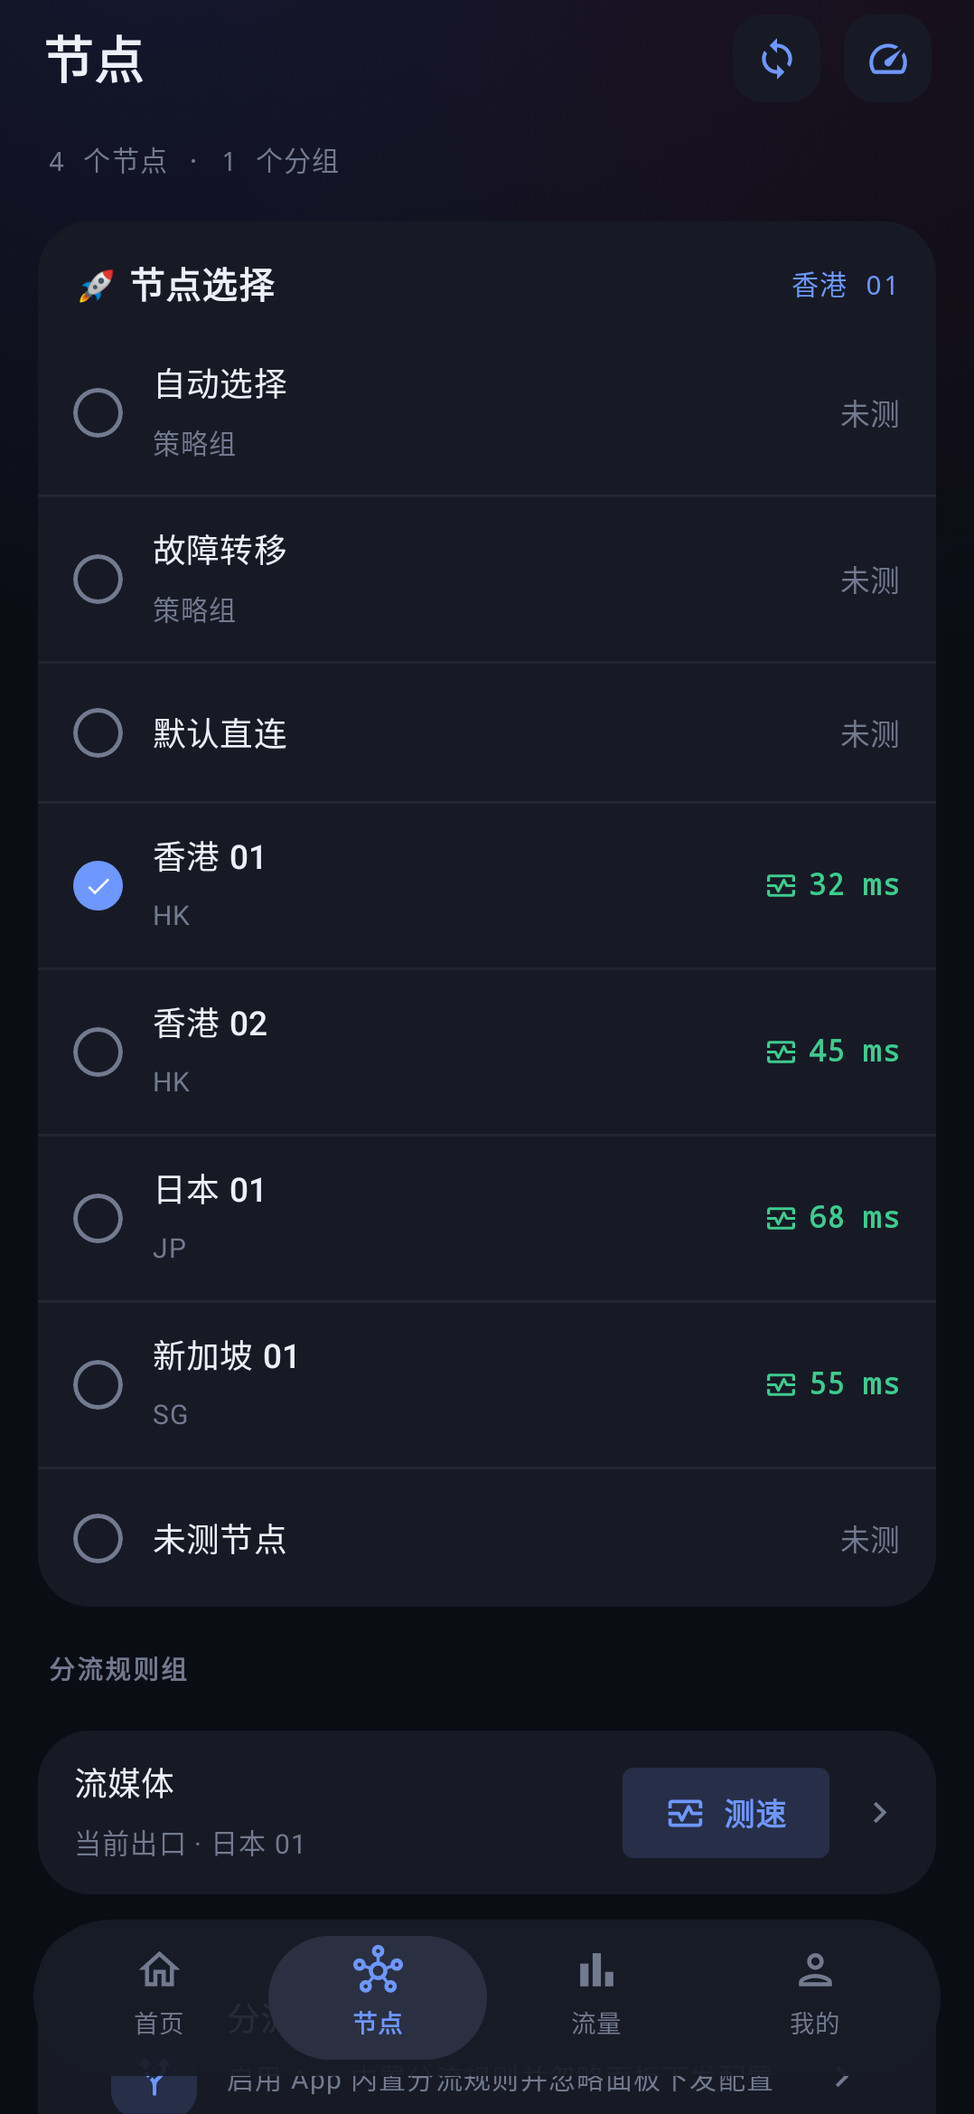
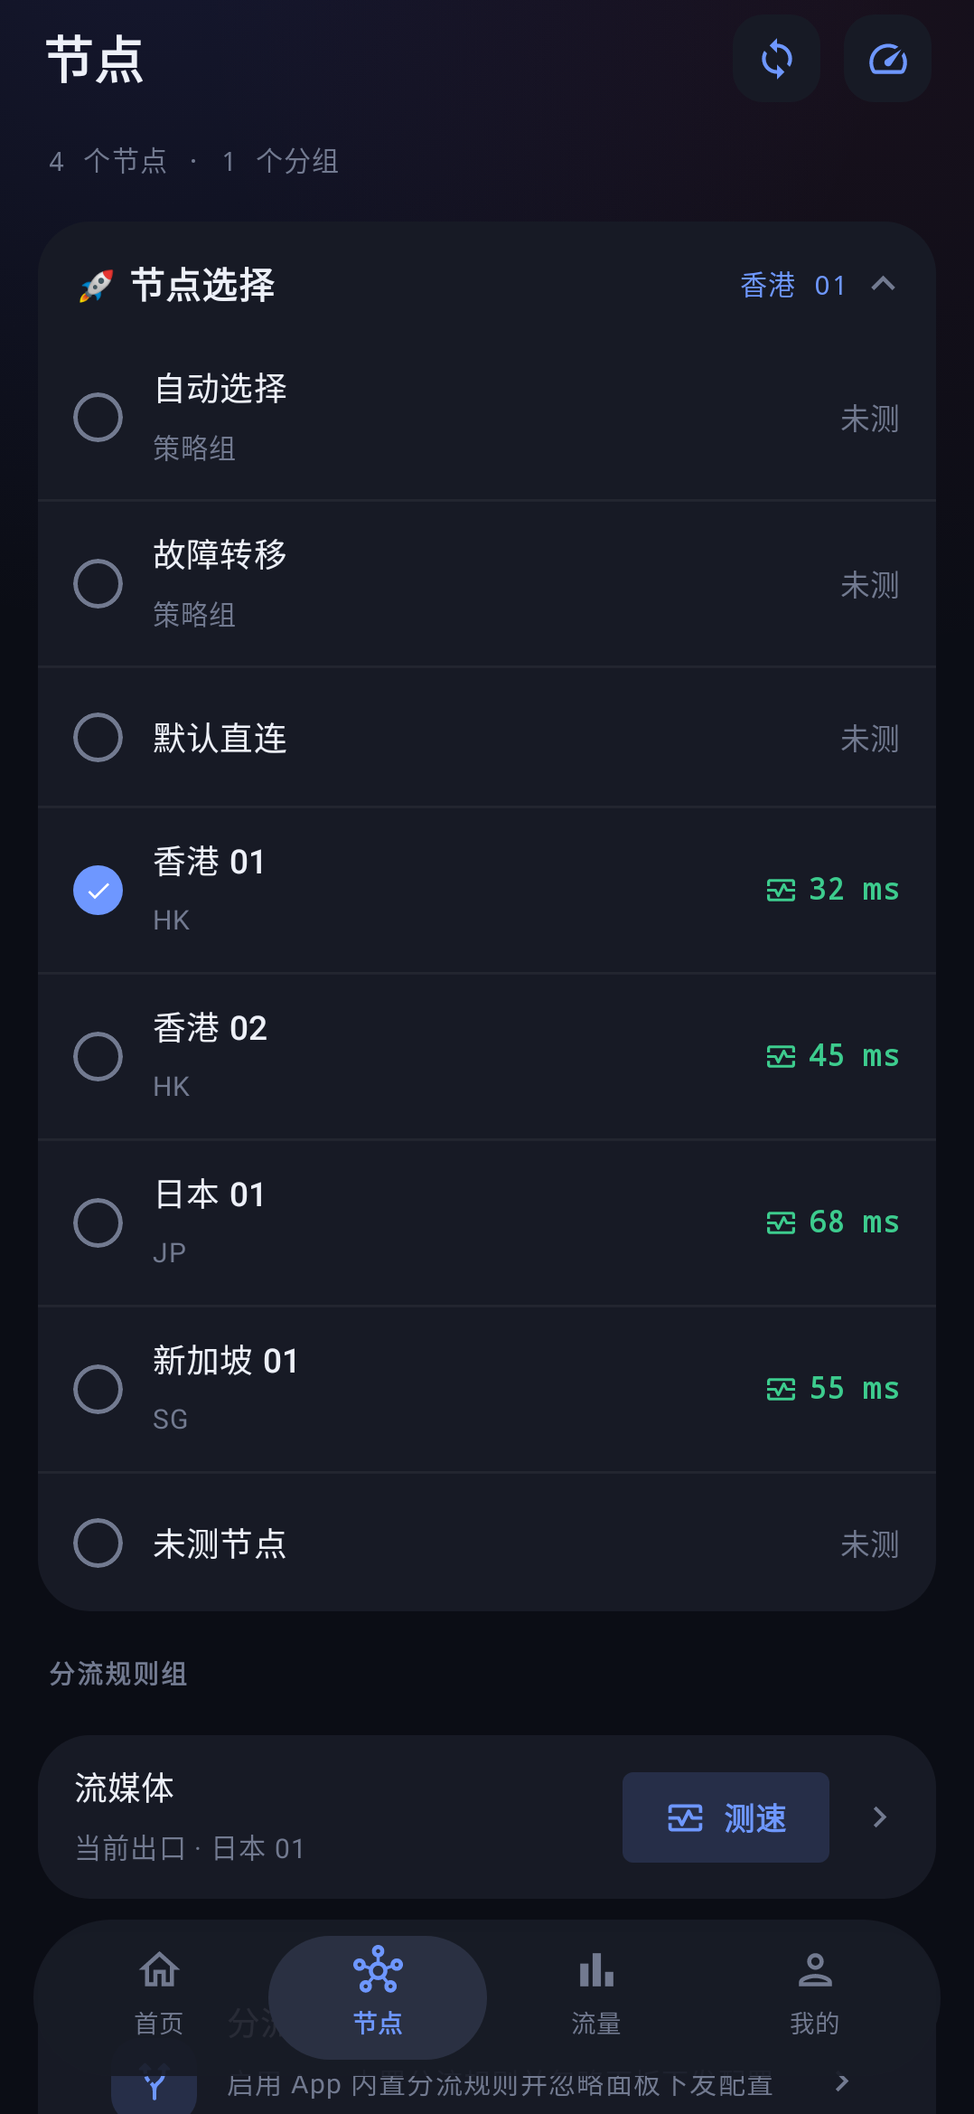
feat(nodes): 节点页「节点选择」支持折叠
用户反馈「节点也(页)节点选择没有折叠」。主组卡此前常展开，而本地分流下
include-all 会把订阅全部节点并进主组，展开即上百行；页面主体又是
Column+verticalScroll（非懒加载），折叠是当前唯一能减少组合/测量的手段。

## 实现要点（均来自专家团评审结论，逐条落实）

- **折叠态放 ServerViewModel 而不是屏幕内状态**：Tab 内容由
  `AnimatedContent(contentKey = { tab to leaf })` 切换，切 Tab 会销毁整棵子树；
  本仓没有 SaveableStateHolder，`remember` 与 `rememberSaveable` 都会丢，
  表现为"收起后切走再回来又全展开"。
- **key = 组名**（`toggleCollapsed` 纯函数，黑名单语义：集合内 = 收起）：
  默认展开因此只是一行初始值；每次测速/订阅更新都会整体重建组对象
  （同名对象的 now/members 已变，data class 不相等），用对象或下标做 key
  会让折叠态在刷新后静默失效。
- **收起后仍显示当前出口**（`primary.now`）：那是用户确认流量走向的唯一入口，
  不能藏。头部信息契约 = 组名 + 当前出口。
- **折叠只 gate 成员列表**：加载中/无节点的占位分支放在折叠判断之外，
  否则首屏是一张没有行、没有解释的空卡。
- **命中区 ≥48dp**：此前约 43dp，低于最小触控目标。
- **箭头复用既有令牌** `SlteIcons.ExpandMore/ExpandLess`，不用 ChevronRight
  （本工程语义是"进入下一层"）。
- **列表为空时不裁剪折叠集合**：首次进节点页 groups 尚为空，裁剪会吃掉
  用户刚收起的组名（`syncCollapsedSections` 的两个保护之一）。
- 顺带修掉一个既有小问题：出口弹层此前持有 `KernelProxyGroupInfo` 对象快照，
  组刷新后弹层里的 now/延迟会停在旧值 → 改为只存组名、渲染时按名解析。

## 验证
- 单测 814 例通过（新增 ToggleCollapsedTest 5 例，覆盖"同名重建后仍保持收起"）；
- 新增折叠态截图用例并目视确认：收起态只显示「🚀 节点选择 + 香港 01 + 收起箭头」、
  无成员行；展开态箭头朝上且成员行正常（自动选择 / 策略组 / 未测）；
- `:app:verifyKernelBinary` / `:app:ktlintCheck` / `:app:lintDebug` /
  `:app:assembleDebug` / `:app:assembleDebugAndroidTest` /
  `:app:minifyReleaseWithR8` / `:app:verifyReleaseApiSurvivors` 全通过；
- 纯 App 侧改动，未触碰内核，无需重编 libclash.so。

未做（明确记录）：分流规则组区块的折叠。该行的 onClick 已被"打开出口弹层"
占用，叠加折叠会产生二义手势（需要另做独立命中区），留作下一轮。

diff --git a/app/src/main/java/com/slte/app/ui/v5/screens/V5NodesScreen.kt b/app/src/main/java/com/slte/app/ui/v5/screens/V5NodesScreen.kt
@@ -3,15 +3,19 @@
 
 package com.slte.app.ui.v5.screens
 
+import androidx.compose.foundation.clickable
 import androidx.compose.foundation.layout.Row
 import androidx.compose.foundation.layout.Spacer
+import androidx.compose.foundation.layout.defaultMinSize
 import androidx.compose.foundation.layout.fillMaxWidth
 import androidx.compose.foundation.layout.padding
+import androidx.compose.foundation.layout.size
 import androidx.compose.material.icons.Icons
 import androidx.compose.material.icons.outlined.MonitorHeart
 import androidx.compose.material.icons.outlined.Speed
 import androidx.compose.material.icons.outlined.Sync
 import androidx.compose.material3.HorizontalDivider
+import androidx.compose.material3.Icon
 import androidx.compose.material3.Text
 import androidx.compose.runtime.Composable
 import androidx.compose.runtime.getValue
@@ -23,6 +27,7 @@ import androidx.compose.ui.Modifier
 import androidx.compose.ui.res.stringResource
 import androidx.compose.ui.text.font.FontFamily
 import androidx.compose.ui.text.font.FontWeight
+import androidx.compose.ui.text.style.TextOverflow
 import androidx.compose.ui.unit.dp
 import androidx.compose.ui.unit.sp
 import com.slte.app.R
@@ -103,12 +108,18 @@ internal fun V5NodesScreen(
     onRefreshSubscription: () -> Unit,
     onRoutingRules: () -> Unit,
     onNavSelect: (NavTab) -> Unit,
+    // 折叠态由 ViewModel 持有（切 Tab 会销毁本屏组合，局部状态必丢）。
+    // 给默认值是为了不破坏截图测试等既有调用点。
+    collapsedSections: Set<String> = emptySet(),
+    onToggleSection: (String) -> Unit = {},
 ) {
     val c = V5ThemeColors.current
     val primary = primaryGroupOf(groups)
     val members = primary?.let { orderMembers(it.members, nodeOrderIndex(data)) } ?: emptyList()
     val groupsForRouting = routingGroupsOf(groups)
-    var exitSheetGroup by remember { mutableStateOf<KernelProxyGroupInfo?>(null) }
+    // 只存组名：存组对象快照会在组刷新后让弹层里的 now/延迟停在旧值
+    var exitSheetGroupName by remember { mutableStateOf<String?>(null) }
+    val exitSheetGroup = exitSheetGroupName?.let { name -> groups.firstOrNull { it.name == name } }
 
     V5PageScaffold(tab = NavTab.NODES, onNavSelect = onNavSelect) {
         V5TopBar(stringResource(R.string.page_nodes)) {
@@ -135,9 +146,23 @@ internal fun V5NodesScreen(
             // —— 节点选择：主组（🚀 节点选择）的全部成员
             // 结构项（自动选择 / 故障转移 / DIRECT）与具体节点同层可选，
             // 选中态完全由内核回读的主组 now 决定（不做乐观更新）。
+            //
+            // 折叠（用户反馈「节点选择没有折叠」）：
+            // - 头部整行可点，命中区 ≥48dp（此前约 43dp，低于最小触控目标）；
+            // - 收起后**仍显示当前出口**——那是用户确认流量走向的唯一入口，不能藏；
+            // - 折叠只 gate 成员列表：加载中/无节点的占位必须照样显示，
+            //   否则首屏是一张没有行、没有解释的空卡；
+            // - 折叠态 key = 组名，存放在 ServerViewModel（本屏局部状态会被切 Tab 销毁）。
+            val collapsed = primary != null && primary.name in collapsedSections
             V5CardFlat(Modifier.fillMaxWidth()) {
                 Row(
-                    Modifier.fillMaxWidth().padding(start = 15.dp, end = 15.dp, top = 14.dp, bottom = 8.dp),
+                    Modifier
+                        .fillMaxWidth()
+                        .defaultMinSize(minHeight = 48.dp)
+                        .clickable(enabled = primary != null) {
+                            primary?.let { onToggleSection(it.name) }
+                        }
+                        .padding(start = 15.dp, end = 12.dp, top = 13.dp, bottom = 9.dp),
                     verticalAlignment = Alignment.CenterVertically,
                 ) {
                     Text(
@@ -145,17 +170,35 @@ internal fun V5NodesScreen(
                         fontSize = 15.sp,
                         fontWeight = FontWeight.SemiBold,
                         color = c.text,
+                        maxLines = 1,
+                        overflow = TextOverflow.Ellipsis,
+                        modifier = Modifier.weight(1f),
                     )
-                    Spacer(Modifier.weight(1f))
+                    // 当前出口：收起后依然可见
                     Text(
                         primary?.now ?: stringResource(R.string.v5_group_unset),
                         fontSize = 11.5.sp,
                         fontFamily = FontFamily.Monospace,
                         color = c.accent,
+                        maxLines = 1,
+                        overflow = TextOverflow.Ellipsis,
                     )
+                    // 折叠箭头复用既有图标令牌；不用 ChevronRight（本工程语义是"进入下一层"）
+                    if (primary != null) {
+                        Icon(
+                            if (collapsed) SlteIcons.ExpandMore else SlteIcons.ExpandLess,
+                            contentDescription = null,
+                            tint = c.text3,
+                            modifier = Modifier.padding(start = 4.dp).size(20.dp),
+                        )
+                    }
                 }
                 when {
-                    members.isNotEmpty() -> {
+                    // 占位分支在折叠判断之外：收起时也要能看到"在加载/确实没有"
+                    members.isEmpty() && isLoadingGroups -> GroupPlaceholder(stringResource(R.string.v5_groups_loading))
+                    members.isEmpty() -> GroupPlaceholder(stringResource(R.string.v5_no_nodes))
+                    collapsed -> Unit
+                    else -> {
                         members.forEachIndexed { index, member ->
                             if (index > 0) HorizontalDivider(thickness = 1.dp, color = c.hairline2)
                             MemberRow(
@@ -165,8 +208,6 @@ internal fun V5NodesScreen(
                             )
                         }
                     }
-                    isLoadingGroups -> GroupPlaceholder(stringResource(R.string.v5_groups_loading))
-                    else -> GroupPlaceholder(stringResource(R.string.v5_no_nodes))
                 }
             }
 
@@ -200,7 +241,7 @@ internal fun V5NodesScreen(
                                 }
                             },
                             chevron = true,
-                            onClick = { exitSheetGroup = group },
+                            onClick = { exitSheetGroupName = group.name },
                         )
                     }
                 }
@@ -232,10 +273,10 @@ internal fun V5NodesScreen(
     exitSheetGroup?.let { group ->
         GroupExitSheet(
             group = group,
-            onDismiss = { exitSheetGroup = null },
+            onDismiss = { exitSheetGroupName = null },
             onSelect = { member ->
                 onSelectInGroup(group.name, member)
-                exitSheetGroup = null
+                exitSheetGroupName = null
             },
         )
     }

diff --git a/app/src/main/java/com/slte/app/ui/screen/server/ServerViewModel.kt b/app/src/main/java/com/slte/app/ui/screen/server/ServerViewModel.kt
@@ -68,6 +68,26 @@ constructor(
     /** 全组测速结束提示（完成 / 失败），UI 取用后需 consume。 */
     val speedTestTipRes: StateFlow<Int?> = _speedTestTipRes.asStateFlow()
 
+    /**
+     * 节点页已收起的区块（**按组名**，集合内 = 收起）。
+     *
+     * 两点是刻意的：
+     * 1. 放在 ViewModel 而不是屏幕内 `remember`：Tab 内容是
+     *    `AnimatedContent(contentKey = { tab to leaf })`，切 Tab 会销毁整棵子树，
+     *    局部状态（含 `rememberSaveable`，本仓没有 SaveableStateHolder）必丢，
+     *    表现为"收起后切走再回来又全展开"。
+     * 2. 用组名做 key 而不是组对象/下标：每次测速或订阅更新都会整体重建
+     *    `KernelProxyGroupInfo` 列表，而同名对象的 now/members 已变化故不相等，
+     *    用对象做 key 会导致折叠态在刷新后静默失效。
+     *
+     * 只在内存中，不落盘（跨进程启动复位为默认展开，属预期）。
+     */
+    private val _collapsedSections = MutableStateFlow<Set<String>>(emptySet())
+    val collapsedSections: StateFlow<Set<String>> = _collapsedSections.asStateFlow()
+
+    /** 已发生过一次组加载：用于区分"还没加载"与"确实没有组"。 */
+    private var sectionsLoaded = false
+
     init {
 
         val cachedDelays = kernelProxy.cachedSpeedResults()
@@ -199,7 +219,7 @@ constructor(
     /** 仅在策略组已加载过时刷新，避免首次进入节点页前发起多余的组查询。 */
     private suspend fun refreshGroupsIfLoaded() {
         if (_proxyGroups.value.isEmpty()) return
-        _proxyGroups.value = withCachedDelays(kernelProxy.proxyGroups())
+        refreshPrimarySectionState(kernelProxy.proxyGroups())
     }
 
     fun startSpeedTest() {
@@ -246,10 +266,44 @@ constructor(
         viewModelScope.launch { refreshGroups() }
     }
 
+    /**
+     * 切换某个区块（按组名）的展开/收起。集合内 = 收起。
+     * 与 [com.slte.app.kernel.toggleCollapsed] 同一语义，保证可单测。
+     */
+    fun toggleSection(name: String) {
+        _collapsedSections.value = com.slte.app.kernel.toggleCollapsed(_collapsedSections.value, name)
+    }
+
+    /**
+     * 组列表变化后校正折叠集合：丢弃已不存在的组名，并补上 [defaultCollapsed]。
+     *
+     * 两个保护（否则会吃掉用户的操作）：
+     * 1. **组列表为空时不裁剪**——首次进节点页 `_proxyGroups` 尚为空，此时裁剪会把
+     *    用户刚收起的组名一并清掉；
+     * 2. 只丢弃"库里已没有"的名字，其余保持原样，因此测速/订阅更新导致的列表重建
+     *    不会把折叠态复位。
+     */
+    fun syncCollapsedSections(
+        groupNames: List<String>,
+        defaultCollapsed: Set<String> = emptySet(),
+    ) {
+        if (groupNames.isEmpty()) return
+        val names = groupNames.toSet()
+        val pruned = if (!sectionsLoaded) _collapsedSections.value else _collapsedSections.value intersect names
+        sectionsLoaded = true
+        _collapsedSections.value = defaultCollapsed + pruned
+    }
+
     private suspend fun refreshGroups() {
         _isLoadingGroups.value = true
-        _proxyGroups.value = withCachedDelays(kernelProxy.proxyGroups())
+        refreshPrimarySectionState(kernelProxy.proxyGroups())
         _isLoadingGroups.value = false
+    }
+
+    /** 拉取组列表并把结果同步给折叠集合（避免各调用点各写一份）。 */
+    private suspend fun refreshPrimarySectionState(next: List<KernelProxyGroupInfo>) {
+        _proxyGroups.value = withCachedDelays(next)
+        syncCollapsedSections(next.map { it.name })
     }
 
     /**
@@ -290,7 +344,11 @@ constructor(
     ) {
         viewModelScope.launch {
             if (kernelProxy.selectInGroup(groupName, proxyName)) {
-                _proxyGroups.value = kernelProxy.proxyGroups()
+                // 就地更新（不重新查询内核，避免丢掉刚写回的延迟）；
+                // 组集合本身不变，但同步一次折叠集合以覆盖"组曾缺失"的情形。
+                val next = kernelProxy.proxyGroups()
+                _proxyGroups.value = next
+                syncCollapsedSections(next.map { it.name })
                 refreshSpecialNodes()
             } else {
                 _errorMessageRes.value = R.string.proxy_group_select_failed

diff --git a/app/src/test/java/com/slte/app/ui/screenshot/FourTabsScreenshotTest.kt b/app/src/test/java/com/slte/app/ui/screenshot/FourTabsScreenshotTest.kt
@@ -224,7 +224,8 @@ class FourTabsScreenshotTest {
             V5HomeScreen(
                 data = dashboardData(connected = false),
                 onToggleConnection = {},
-                onVpnPermissionDenied = {},                vpnRequestIntent = { null },
+                onVpnPermissionDenied = {},
+                vpnRequestIntent = { null },
                 onRenew = {},
                 onNavSelect = {},
                 refreshKernelInfo = {},
@@ -323,6 +324,49 @@ class FourTabsScreenshotTest {
                 onRefreshSubscription = {},
                 onRoutingRules = {},
                 onNavSelect = {},
+            )
+        }
+    }
+
+    // 折叠主组：头部须仍显示「组名 + 当前出口」，成员行不渲染
+    @Test
+    fun 节点主组收起亮色() {
+        snapshot("server-collapsed", dark = false) {
+            V5NodesScreen(
+                data = serverData(),
+                groups = proxyGroups,
+                isLoadingGroups = false,
+                testingGroup = null,
+                isTestingAll = false,
+                onSelectPrimary = {},
+                onSelectInGroup = { _, _ -> },
+                onTestGroup = {},
+                onStartSpeedTest = {},
+                onRefreshSubscription = {},
+                onRoutingRules = {},
+                onNavSelect = {},
+                collapsedSections = setOf("🚀 节点选择"),
+            )
+        }
+    }
+
+    @Test
+    fun 节点主组收起暗色() {
+        snapshot("server-collapsed", dark = true) {
+            V5NodesScreen(
+                data = serverData(),
+                groups = proxyGroups,
+                isLoadingGroups = false,
+                testingGroup = null,
+                isTestingAll = false,
+                onSelectPrimary = {},
+                onSelectInGroup = { _, _ -> },
+                onTestGroup = {},
+                onStartSpeedTest = {},
+                onRefreshSubscription = {},
+                onRoutingRules = {},
+                onNavSelect = {},
+                collapsedSections = setOf("🚀 节点选择"),
             )
         }
     }

diff --git a/app/src/test/java/com/slte/app/kernel/DelaySemanticsTest.kt b/app/src/test/java/com/slte/app/kernel/DelaySemanticsTest.kt
@@ -165,8 +165,55 @@ class SpeedTestOutcomeTest {
     }
 }
 
-class RoutingInputValidatorTest {
+/** 节点页区块折叠集合（集合内 = 收起）。 */
+class ToggleCollapsedTest {
 
+    @Test
+    fun `点击在收起与展开之间往返`() {
+        val collapsed = toggleCollapsed(emptySet(), PrimaryGroupName)
+        assertTrue(PrimaryGroupName in collapsed)
+        val expanded = toggleCollapsed(collapsed, PrimaryGroupName)
+        assertTrue(PrimaryGroupName !in expanded)
+    }
+
+    @Test
+    fun `切换一个组不影响其他组`() {
+        val a = toggleCollapsed(emptySet(), "A")
+        val ab = toggleCollapsed(a, "B")
+        assertEquals(setOf("A", "B"), ab)
+        assertEquals(setOf("B"), toggleCollapsed(ab, "A"))
+    }
+
+    @Test
+    fun `同名不同对象（模拟刷新重建）语义不变——key 是组名而非对象`() {
+        // 刷新会重建 KernelProxyGroupInfo（now/members 变化 → data class 不相等），
+        // 但折叠集合只存组名，因此状态必须保持不变
+        val before = KernelProxyGroupInfo(
+            name = PrimaryGroupName,
+            type = "Selector",
+            now = "香港 01",
+            selectable = true,
+            members = emptyList(),
+        )
+        val collapsed = toggleCollapsed(emptySet(), before.name)
+        val after = KernelProxyGroupInfo(
+            name = PrimaryGroupName,
+            type = "Selector",
+            now = "日本 01",
+            selectable = true,
+            members = listOf(KernelProxyMember("日本 01", false, 42)),
+        )
+        assertTrue("刷新重建后仍应保持收起", after.name in collapsed)
+    }
+
+    @Test
+    fun `重复切换总是回到集合原状`() {
+        val start = setOf("X")
+        assertEquals(start, toggleCollapsed(toggleCollapsed(start, "Y"), "Y"))
+    }
+}
+
+class RoutingInputValidatorTest {
     @Test
     fun `合法组名通过`() {
         assertTrue(RoutingInputValidator.isValidGroupName("我的规则"))

diff --git a/app/src/main/java/com/slte/app/kernel/RoutingGroups.kt b/app/src/main/java/com/slte/app/kernel/RoutingGroups.kt
@@ -58,6 +58,22 @@ val RoutingReservedNames: Set<String> =
     linkedSetOf(PrimaryGroupName, "自动选择", "故障转移", "🐟 漏网之鱼")
 
 /**
+ * 节点页区块折叠集合的切换（纯函数，可单测）。集合内 = **已收起**。
+ *
+ * 语义刻意选"黑名单（收起集合）"而不是"白名单（展开集合）"：默认（不在集合里）
+ * 即展开，于是"默认展开"这个决策只是一行初始值，而不是散落在 UI 里的 if-else；
+ * 新出现的组也天然是展开的。
+ *
+ * key 必须是**组名**：每次测速/订阅更新都会整体重建组对象
+ * （同名对象的 now/members 已变，data class 不相等），用对象或下标做 key
+ * 会让折叠态在刷新后静默失效。
+ */
+fun toggleCollapsed(
+    current: Set<String>,
+    name: String,
+): Set<String> = if (name in current) current - name else current + name
+
+/**
  * 解析节点页「节点选择」卡对应的主组（纯函数，可单测）。
  *
  * 顺序即契约：

diff --git a/app/src/main/java/com/slte/app/ui/navigation/LoggedInPages.kt b/app/src/main/java/com/slte/app/ui/navigation/LoggedInPages.kt
@@ -152,6 +152,8 @@ internal fun ServerPageContent(
     val isLoadingGroups by serverViewModel.isLoadingGroups.collectAsStateWithLifecycle()
     val testingGroup by serverViewModel.testingGroup.collectAsStateWithLifecycle()
     val isTestingAll by serverViewModel.isTestingAll.collectAsStateWithLifecycle()
+    // 折叠态放 ViewModel：切 Tab 会销毁本屏组合，屏幕内 remember/rememberSaveable 都会丢
+    val collapsedSections by serverViewModel.collapsedSections.collectAsStateWithLifecycle()
     V5NodesScreen(
         data = data,
         groups = groups,
@@ -167,6 +169,8 @@ internal fun ServerPageContent(
         onRefreshSubscription = onUpdateSubscription,
         onRoutingRules = onRoutingRules,
         onNavSelect = onNavSelect,
+        collapsedSections = collapsedSections,
+        onToggleSection = serverViewModel::toggleSection,
     )
 }
 
